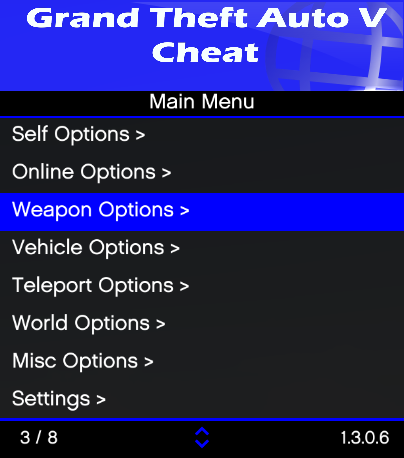
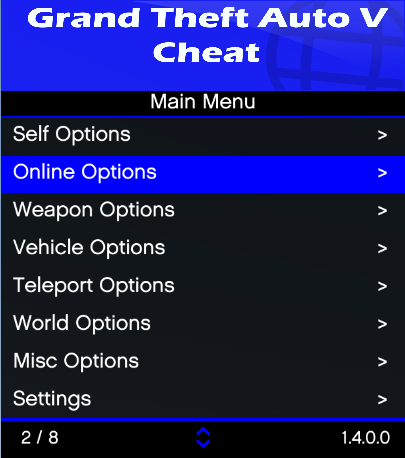
Build number to 1.4.0.0

diff --git a/Source/Main.cpp b/Source/Main.cpp
@@ -76,7 +76,7 @@ void Cheat::FiberMain()
 		case allplayers_trolloptionsmenu:
 		{
 			Cheat::GUI::Title("Troll Options"); 
-			Cheat::GUI::Toggle("Freeze All Players", Cheat::CheatFeatures::FreezeAllPlayersBool, "Freeze all players in session");
+			Cheat::GUI::Toggle("Freeze All Players", Cheat::CheatFeatures::FreezeAllPlayersBool, "Freeze all players in session", false);
 			if (Cheat::GUI::Option("Kick All Out Of Vehicle", "Kick all players from their vehicle"))
 			{
 				for (int i = 0; i < 32; i++)

diff --git a/Header/Main.h b/Header/Main.h
@@ -6,7 +6,7 @@
 #pragma warning(disable : 4091)	
 #pragma warning(disable : 6262)
 
-#define CHEAT_BUILD_NUMBER "1.3.0.6"
+#define CHEAT_BUILD_NUMBER "1.4.0.0"
 
 #include <windows.h>
 #include <string>
